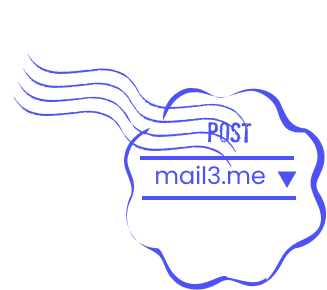
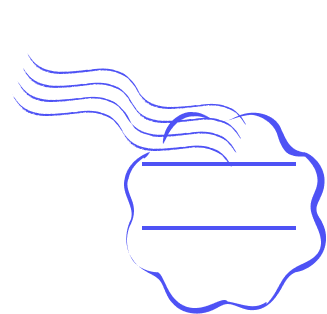
refactor: profile page

Changed region(s): [[0.0306, 0.1862, 1.0, 0.9621], [0.4281, 0.8379, 0.8257, 0.9931], [0.3976, 0.8069, 0.4281, 0.8379]]

diff --git a/packages/ui/src/CardSignature/index.tsx b/packages/ui/src/CardSignature/index.tsx
@@ -1,5 +1,5 @@
 import React from 'react'
-import { Flex, Center } from '@chakra-ui/react'
+import { Flex, Center, Text } from '@chakra-ui/react'
 import Image from 'next/image'
 // @ts-ignore
 import stampBg from 'assets/svg/stamp-bg.svg?url'
@@ -10,6 +10,16 @@ import { Avatar } from '../Avatar'
 
 export interface SignatureCardProps {
   account: string
+}
+
+function truncateMiddle(
+  str = '',
+  takeLength = 6,
+  tailLength = takeLength,
+  pad = '...'
+): string {
+  if (takeLength + tailLength >= str.length) return str
+  return `${str.slice(0, takeLength)}${pad}${str.slice(-tailLength)}`
 }
 
 export const CardSignature: React.FC<SignatureCardProps> = ({ account }) => (
@@ -27,7 +37,16 @@ export const CardSignature: React.FC<SignatureCardProps> = ({ account }) => (
     <Flex position="absolute" bottom="0" left="-10px">
       <Image src={StampPng} width="163px" height="144px" />
     </Flex>
-    <Flex position="absolute" bottom="10px">
+    <Flex position="absolute" bottom="42px" right="45px">
+      <Text
+        fontSize="12px"
+        w="95px"
+        fontWeight={700}
+        color="#4E52F5"
+        lineHeight="10px"
+      >{`${truncateMiddle(account, 6, 4)}@mail3.me`}</Text>
+    </Flex>
+    <Flex position="absolute" bottom="5px">
       <QrCode value={`https://mail3.me/${account}`} size={32} fgColor="blue" />
     </Flex>
   </Center>
